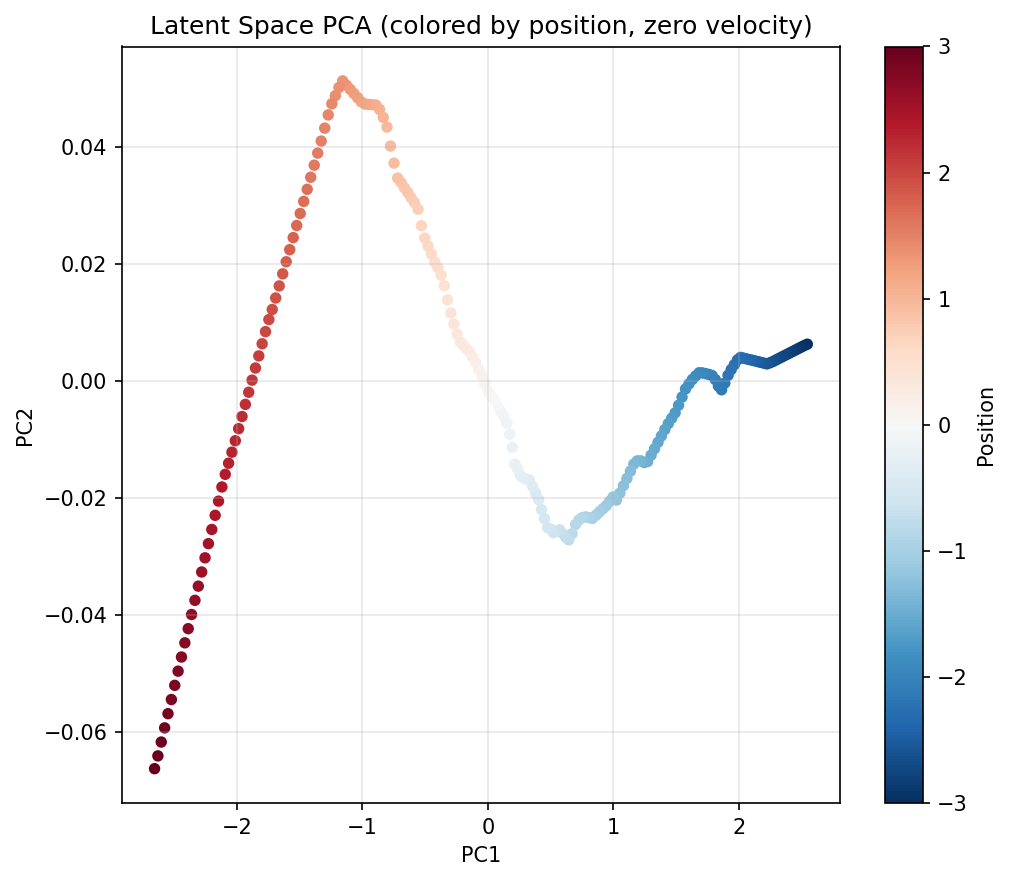
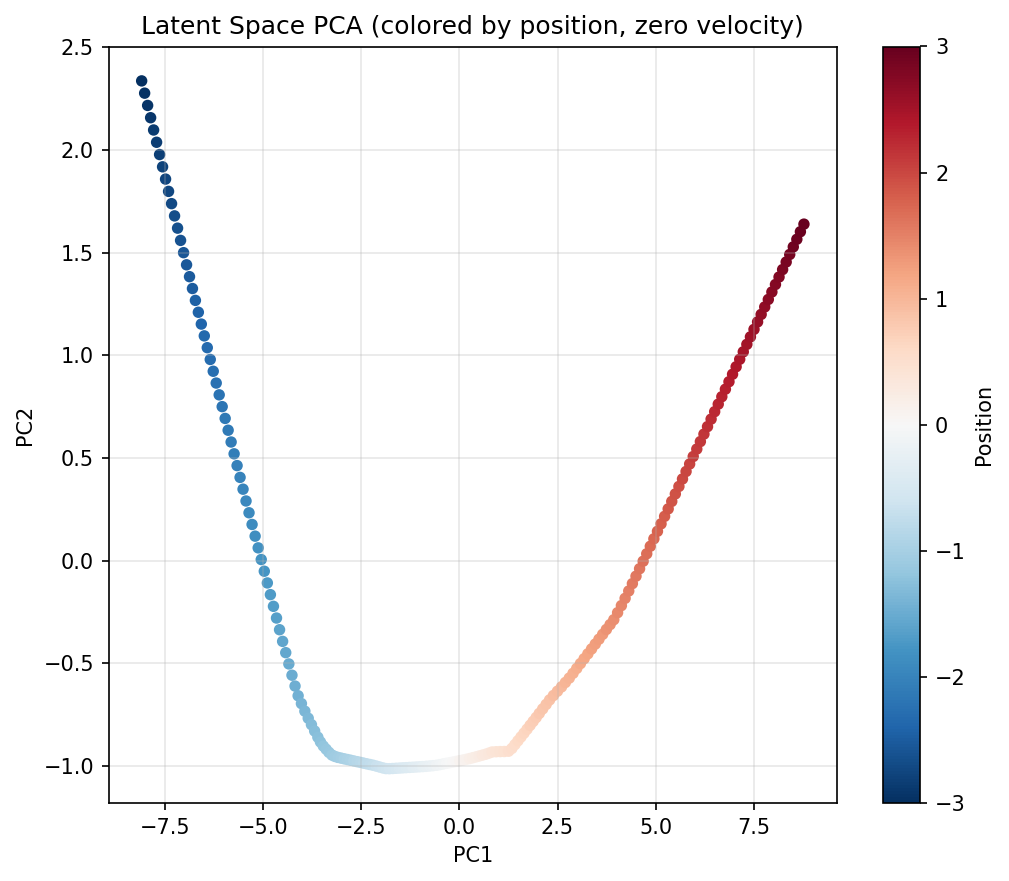
teehee

diff --git a/src/wrld/models.py b/src/wrld/models.py
@@ -8,7 +8,7 @@ Dimensions:
 import torch
 import torch.nn as nn
 
-LATENT_DIM = 2
+LATENT_DIM = 16
 OBS_DIM = 2
 ACTION_DIM = 1
 
@@ -19,13 +19,13 @@ class Encoder(nn.Module):
     def __init__(self):
         super().__init__()
         self.net = nn.Sequential(
-            nn.Linear(OBS_DIM, 64),
+            nn.Linear(OBS_DIM, 32),
             nn.ReLU(),
-            nn.Linear(64, 128),
+            nn.Linear(32, 64),
             nn.ReLU(),
-            nn.Linear(128, 128),
-            nn.ReLU(),
-            nn.Linear(128, LATENT_DIM * 2),
+            # nn.Linear(128, 128),
+            # nn.ReLU(),
+            nn.Linear(64, LATENT_DIM * 2),
         )
 
     def forward(self, obs: torch.Tensor) -> tuple[torch.Tensor, torch.Tensor]:
@@ -34,31 +34,30 @@ class Encoder(nn.Module):
         log_var = torch.clamp(log_var, -10.0, 10.0)
         return mu, log_var
 
-
 class DynamicsModel(nn.Module):
-    """Predicts next latent from current latent + action (residual)."""
-
     def __init__(self):
         super().__init__()
-        self.net = nn.Sequential(
-            nn.Linear(LATENT_DIM + ACTION_DIM, 64),
+        # A: state transition — initialize to slightly less than identity
+        # so state decays slowly rather than exploding
+        self.A = nn.Linear(LATENT_DIM, LATENT_DIM, bias=False)
+        self.B = nn.Linear(ACTION_DIM, LATENT_DIM, bias=True)
+
+        # nonlinearity between SSM and output
+        self.out = nn.Sequential(
+            nn.LayerNorm(LATENT_DIM),
             nn.ReLU(),
-            nn.Linear(64, 64),
-            nn.ReLU(),
-            # nn.Linear(32, 32),
-            # nn.ReLU(),
-            nn.Linear(64, LATENT_DIM),
+            nn.Linear(LATENT_DIM, LATENT_DIM),
         )
-        self.A = nn.Linear(LATENT_DIM, LATENT_DIM)
-        self.B = nn.Linear(ACTION_DIM, LATENT_DIM)
+
+        # initialize A to be stable
+        # small identity-like init: eigenvalues near but below 1
+        nn.init.eye_(self.A.weight)
+        self.A.weight.data *= 0.9
 
     def forward(self, z: torch.Tensor, action: torch.Tensor) -> torch.Tensor:
-        inp = torch.cat([z, action], dim=-1)
-        # A matrix
-        out = self.A(z)
-        # B matrix
-        out += self.B(action)
-        return z + self.net(inp)  # residual: predict delta
+        h = self.A(z) + self.B(action)   # core SSM step
+        h = self.out(h)                   # nonlinear refinement
+        return z + h                      # residual — no scaling needed
 
 
 class Decoder(nn.Module):
@@ -67,11 +66,11 @@ class Decoder(nn.Module):
     def __init__(self):
         super().__init__()
         self.net = nn.Sequential(
-            nn.Linear(LATENT_DIM, 128),
+            nn.Linear(LATENT_DIM, 16),
             nn.ReLU(),
-            nn.Linear(128, 64),
+            nn.Linear(16, 16),
             nn.ReLU(),
-            nn.Linear(64, OBS_DIM),
+            nn.Linear(16, OBS_DIM),
         )
 
     def forward(self, z: torch.Tensor) -> torch.Tensor:
@@ -100,32 +99,39 @@ class WorldModel(nn.Module):
     def forward(self, obs_seq: torch.Tensor, action_seq: torch.Tensor) -> dict:
         """
         Args:
-            obs_seq:    (B, T, 1)
-            action_seq: (B, T-1, 1)
-        Returns dict with keys: mu, log_var, obs_recon, z_next_pred, z_next_target
+            obs_seq:    (B, T, OBS_DIM)
+            action_seq: (B, T-1, ACTION_DIM)
+        Returns dict with keys: mu, log_var, obs_recon, obs_target,
+                                rollout_preds, rollout_targets
         """
         B, T, _ = obs_seq.shape
 
-        # Encode all timesteps at once
+        # Encode all timesteps at once (for reconstruction + KL)
         obs_flat = obs_seq.reshape(B * T, OBS_DIM)
         mu_flat, log_var_flat = self.encoder(obs_flat)
         z_flat = self._reparameterize(mu_flat, log_var_flat)
 
-        # Decode all for reconstruction
+        # Decode all for reconstruction loss
         obs_recon_flat = self.decoder(z_flat)
 
-        # Dynamics predictions
-        z_seq = z_flat.reshape(B, T, LATENT_DIM)
-        z_current = z_seq[:, :-1, :].reshape(B * (T - 1), LATENT_DIM)
-        z_next_target = z_seq[:, 1:, :].detach().reshape(B * (T - 1), LATENT_DIM)
-        actions_flat = action_seq.reshape(B * (T - 1), ACTION_DIM)
-        z_next_pred = self.dynamics(z_current, actions_flat)
+        # Full rollout: start from mu_0, iterate dynamics autoregressively
+        mu_seq = mu_flat.reshape(B, T, LATENT_DIM)
+        z = mu_seq[:, 0, :]  # seed with encoder mean at t=0
+        z_preds = []
+        for t in range(T - 1):
+            z = self.dynamics(z, action_seq[:, t, :])
+            z_preds.append(z)
+
+        # Batch-decode all steps in one forward pass instead of T-1 separate calls
+        z_preds = torch.stack(z_preds, dim=1)                              # (B, T-1, LATENT_DIM)
+        rollout_preds = self.decoder(z_preds.reshape(B * (T - 1), LATENT_DIM)).reshape(B, T - 1, OBS_DIM)
+        rollout_targets = obs_seq[:, 1:, :]
 
         return {
             "mu": mu_flat,
             "log_var": log_var_flat,
             "obs_recon": obs_recon_flat,
             "obs_target": obs_flat,
-            "z_next_pred": z_next_pred,
-            "z_next_target": z_next_target,
+            "rollout_preds": rollout_preds,
+            "rollout_targets": rollout_targets,
         }

diff --git a/src/wrld/train.py b/src/wrld/train.py
@@ -20,7 +20,7 @@ def compute_losses(
 
     recon_loss = F.mse_loss(out["obs_recon"], out["obs_target"])
 
-    dynamics_loss = F.mse_loss(out["z_next_pred"], out["z_next_target"])
+    dynamics_loss = F.mse_loss(out["rollout_preds"], out["rollout_targets"])
 
     kl_loss = -0.5 * torch.mean(
         1 + out["log_var"] - out["mu"].pow(2) - out["log_var"].exp()

diff --git a/scripts/train.py b/scripts/train.py
@@ -105,7 +105,7 @@ def main():
         train_loader=train_loader,
         val_loader=val_loader,
         val_data=val_data,
-        num_epochs=1000,
+        num_epochs=200,
         lr=1e-3,
         kl_weight=0.001,
         kl_warmup_epochs=40,

diff --git a/readme.md b/readme.md
@@ -29,9 +29,13 @@ it boils down to an encoder -> latent dynamics model -> deccoder, but if theoret
 
 ok slight changes here, this no longer uses 2x 128 layers in the dynamics model, it uses 1 64 layer. and the latent representation is now 2, not 30. cuts max rollout MSE from .0752 -> 0.0095 
 
-update: increased epochs from 200 -> 1000, and modified dynamics model to be an SSM4( i think ) style model. 
+update: added rollout based training, and modified dynamics model to be an SSM4( i think ) style model. 
 
-at 1000 epochs, performance is crazy, matches reconstruction almost perfectly, and a mean rollout loss of 0.0002, and max of 0.0014. which is almost imperceptable in the worst cases.
+with that + the SSM4 at 200 epochs, performance is crazy, matches reconstruction almost perfectly, and a mean rollout loss of 0.0024, and max of 0.0224, which is siginificantly better when viewed than the previous worst cases.
+
+part of the issue is because the encoder is non-linear, a lot of work is spent trying to "decode" the linear state of the original SMD. interesting point. 
+
+
 
 ### loss
 ![](./figs/loss_curves.png)
@@ -53,7 +57,6 @@ performance is absolute peak now
 ![](./figs/latent_pca.png)
 indicates how well the latent representation holds for the space, if its sporadic / not a smooth curve from red to blue, then something fucked up
 
-no longer smooth, but still good. might be overfitting slightly?
-
+no longer smooth, but still good.
 
 if you have any reccomendations or notice any big errors, please feel free to open a PR :)
